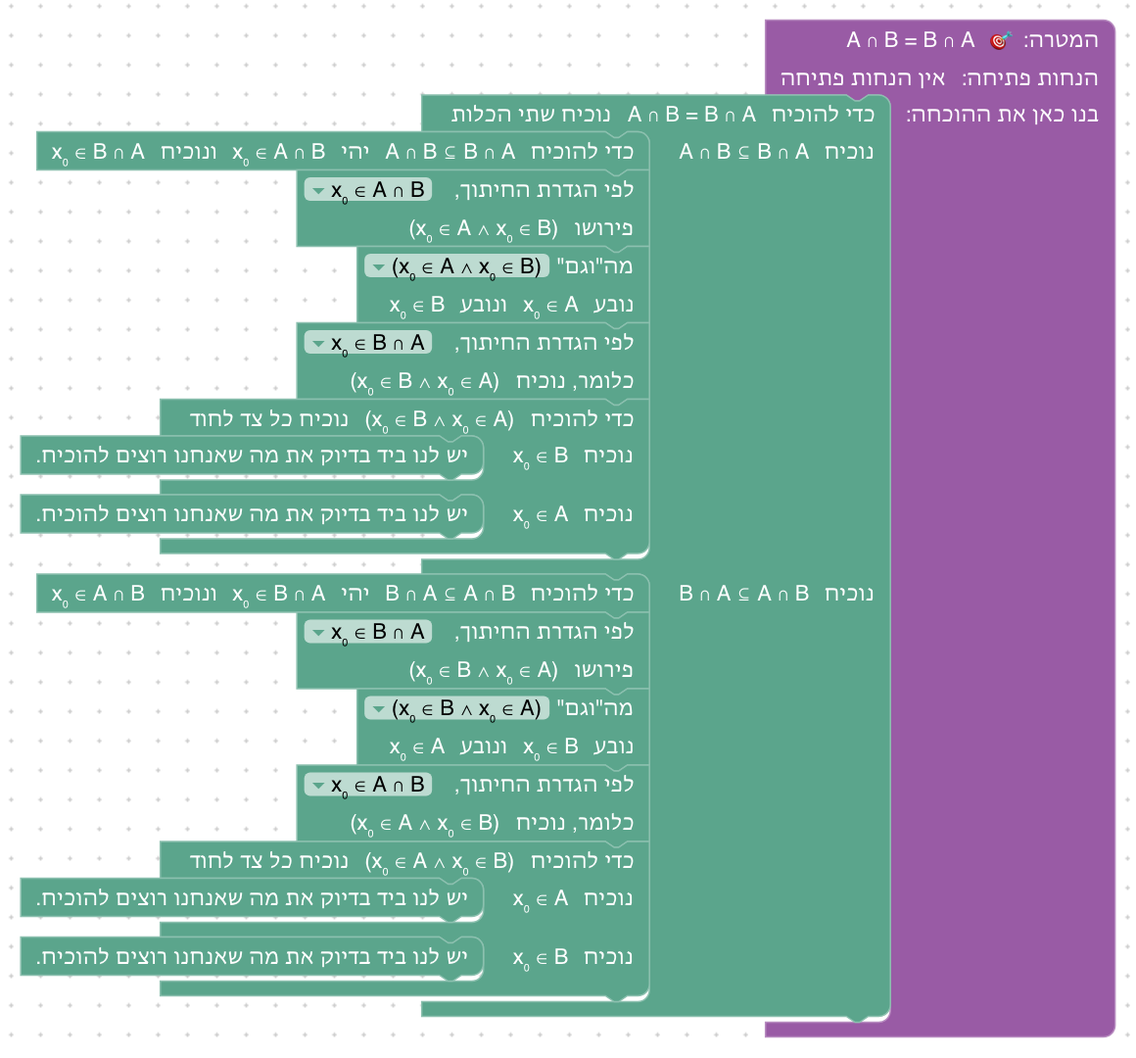
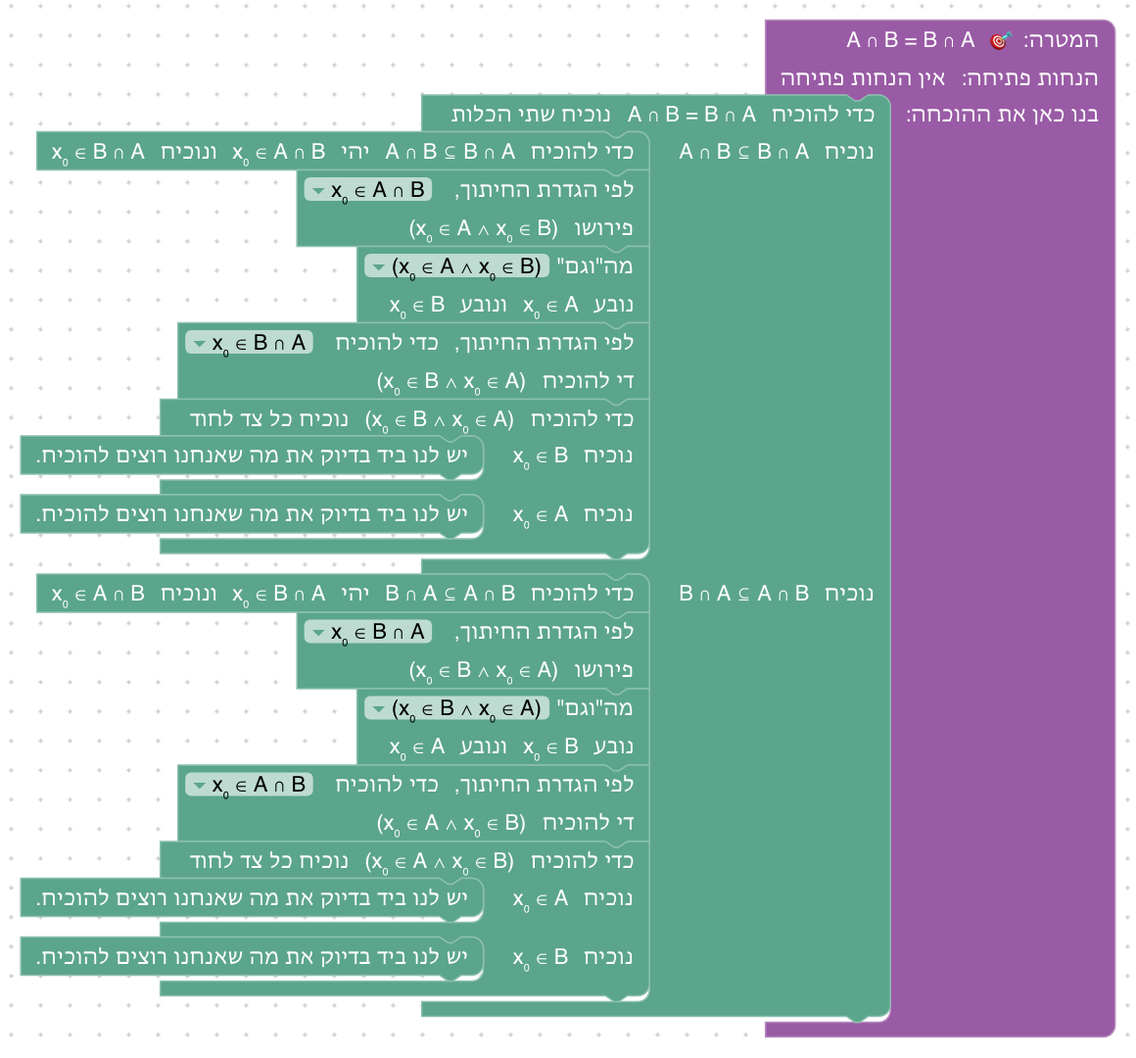
Read a definition on the goal as a backward step, and write 𝒫(A)
On the goal, the definition move read "לפי הגדרת X, [goal] כלומר, נוכיח …",
with no verb between the goal and the rest; it now reads like the other
backward moves: "לפי הגדרת X, כדי להוכיח [goal] די להוכיח …". A power set
is written as a function of its set, 𝒫(A), also when the set is a single
letter; a typed 𝒫(A) is read the same way. The docs and screenshots follow.

Changed region(s): [[0.1552, 0.7028, 0.5586, 0.7944], [0.1552, 0.3056, 0.5586, 0.3972]]

diff --git a/frontend/src/game/unit6World.js b/frontend/src/game/unit6World.js
@@ -22,7 +22,7 @@ const FORALL_ELIM_BLOCK = '"לפי ה"לכל" ? עבור העצם ?"';
 const AND_ELIM_BLOCK = '"מה"וגם" ?"';
 const CLOSE_BLOCK = '"יש לנו ביד בדיוק את מה שאנחנו רוצים להוכיח."';
 
-const powerset = { symbol: 'קבוצת החזקה', doc: 'X ∈ 𝒫 A פירושו X ⊆ A: האיברים של קבוצת החזקה הם תתי־הקבוצות של A.' };
+const powerset = { symbol: 'קבוצת החזקה', doc: 'X ∈ 𝒫(A) פירושו X ⊆ A: האיברים של קבוצת החזקה הם תתי־הקבוצות של A.' };
 const sUnion = { symbol: 'איחוד של משפחה', doc: 'x₀ ∈ ⋃₀ F פירושו ∃S (S ∈ F ∧ x₀ ∈ S): x₀ שייך לאחת הקבוצות במשפחה.' };
 const sInter = { symbol: 'חיתוך של משפחה', doc: 'x₀ ∈ ⋂₀ F פירושו ∀S (S ∈ F → x₀ ∈ S): x₀ שייך לכל הקבוצות במשפחה.' };
 
@@ -52,12 +52,12 @@ export const unit6Levels = [
 
 ביחידה 5 האיברים של הקבוצות היו עצמים. ביחידה הזאת יש גם קבוצות שהאיברים שלהן הם *קבוצות*.
 
-\`𝒫 A\` היא *קבוצת החזקה* של A: הקבוצה שהאיברים שלה הם כל תתי־הקבוצות של A. לפי ההגדרה, \`X ∈ 𝒫 A\` פירושו \`X ⊆ A\`.
+\`𝒫(A)\` היא *קבוצת החזקה* של A: הקבוצה שהאיברים שלה הם כל תתי־הקבוצות של A. לפי ההגדרה, \`X ∈ 𝒫(A)\` פירושו \`X ⊆ A\`.
 
 כאן המטרה היא \`A ∈ 𝒫(A ∪ B)\`: A היא תת־קבוצה של A ∪ B. פותחים את ההגדרה במטרה, כמו ביחידה 5, ומקבלים הכלה רגילה.`,
         newDefinitions: [powerset],
         hints: [
-            `גררו את הבלוק ${UNFOLD_BLOCK} אל תוך בלוק המטרה, ובחרו בו את המטרה A ∈ 𝒫(A ∪ B). עכשיו כתוב בו: לפי הגדרת קבוצת החזקה, כלומר, נוכיח A ⊆ (A ∪ B).`,
+            `גררו את הבלוק ${UNFOLD_BLOCK} אל תוך בלוק המטרה, ובחרו בו את המטרה A ∈ 𝒫(A ∪ B). עכשיו כתוב בו: לפי הגדרת קבוצת החזקה, כדי להוכיח A ∈ 𝒫(A ∪ B) די להוכיח A ⊆ (A ∪ B).`,
             `הוסיפו את הבלוק ${SUBSET_INTRO_BLOCK}: יהי x₀ ∈ A ונוכיח x₀ ∈ A ∪ B.`,
             `פתחו את ההגדרה במטרה x₀ ∈ A ∪ B. אחר כך הוסיפו את הבלוק ${OR_INTRO_BLOCK}, ובחרו בו x₀ ∈ A: היא בידינו.`,
         ],
@@ -76,10 +76,10 @@ export const unit6Levels = [
 
 אם A ⊆ B, כל תת־קבוצה של A היא גם תת־קבוצה של B.
 
-הפעם מוכיחים הכלה בין שתי קבוצות של קבוצות. לוקחים איבר של 𝒫 A, והוא קבוצה, ולכן קוראים לו X₀, באות גדולה. מלבד זה ההוכחה כמו כל הכלה: לוקחים איבר, פותחים הגדרות, ומשתמשים בהכלות.`,
+הפעם מוכיחים הכלה בין שתי קבוצות של קבוצות. לוקחים איבר של 𝒫(A), והוא קבוצה, ולכן קוראים לו X₀, באות גדולה. מלבד זה ההוכחה כמו כל הכלה: לוקחים איבר, פותחים הגדרות, ומשתמשים בהכלות.`,
         hints: [
-            `נניח A ⊆ B, ואחר כך ${SUBSET_INTRO_BLOCK}: יהי X₀ ∈ 𝒫 A ונוכיח X₀ ∈ 𝒫 B.`,
-            'פתחו את ההגדרה בהנחה X₀ ∈ 𝒫 A (פירושו X₀ ⊆ A), ואחר כך במטרה X₀ ∈ 𝒫 B (נשאר להוכיח X₀ ⊆ B).',
+            `נניח A ⊆ B, ואחר כך ${SUBSET_INTRO_BLOCK}: יהי X₀ ∈ 𝒫(A) ונוכיח X₀ ∈ 𝒫(B).`,
+            'פתחו את ההגדרה בהנחה X₀ ∈ 𝒫(A) (פירושו X₀ ⊆ A), ואחר כך במטרה X₀ ∈ 𝒫(B) (נשאר להוכיח X₀ ⊆ B).',
             `כדי להוכיח X₀ ⊆ B, הוסיפו שוב את הבלוק ${SUBSET_INTRO_BLOCK}: יהי x₀ ∈ X₀.`,
             `השתמשו בשתי ההכלות: לפי X₀ ⊆ A נובע x₀ ∈ A, ולפי A ⊆ B נובע x₀ ∈ B.`,
         ],

diff --git a/frontend/src/game/formatProofGoal.js b/frontend/src/game/formatProofGoal.js
@@ -64,6 +64,36 @@ const operand = (formula) => (isQuantified(formula) ? `(${formula})` : formula);
 // know which connective binds tighter: `P ∧ Q → R` is `((P ∧ Q) → R)`.
 // Quantifiers and predicates use the course's notation: Lean's
 // `∀ (x : α), R x y` is `∀x R(x,y)`.
+// A power set is written as a function of its set: `𝒫 A` is `𝒫(A)`, and
+// `𝒫 (A ∪ B)` is `𝒫(A ∪ B)`.
+const POWER_SET = '𝒫 ';
+const powerSetArgument = (text, start) => {
+    if (text.startsWith(POWER_SET, start)) {
+        const inner = powerSetArgument(text, start + POWER_SET.length);
+        return { text: `𝒫(${inner.text})`, end: inner.end };
+    }
+    if (text[start] === '(') {
+        let depth = 0;
+        for (let index = start; index < text.length; index += 1) {
+            if (text[index] === '(') depth += 1;
+            if (text[index] === ')') depth -= 1;
+            if (depth === 0) return { text: writePowerSets(text.slice(start + 1, index)), end: index + 1 };
+        }
+    }
+    const atom = text.slice(start).match(/^[\p{L}\p{N}_₀-₉']+/u)?.[0] || '';
+    return { text: atom, end: start + atom.length };
+};
+const writePowerSets = (text) => {
+    let result = '';
+    let index = 0;
+    for (let found = text.indexOf(POWER_SET); found !== -1; found = text.indexOf(POWER_SET, index)) {
+        const argument = powerSetArgument(text, found + POWER_SET.length);
+        result += `${text.slice(index, found)}𝒫(${argument.text})`;
+        index = argument.end;
+    }
+    return result + text.slice(index);
+};
+
 export const formatProofGoal = (text) => {
     const normalized = stripOuterParentheses(text || '');
     for (const [symbol, spellings] of CONNECTIVES) {
@@ -93,7 +123,7 @@ export const formatProofGoal = (text) => {
     }
     // The functions of unit 7 inside an equation: `double (k + 1)` is
     // `double(k + 1)`; multiplication is written with a dot.
-    return normalized.replace(/ \* /g, ' · ').replace(/\b(double|sumTo|oddSum) (\([^()]*\)|[\p{L}\p{N}_]+)/gu,
+    return writePowerSets(normalized).replace(/ \* /g, ' · ').replace(/\b(double|sumTo|oddSum) (\([^()]*\)|[\p{L}\p{N}_]+)/gu,
         (_, name, argument) => `${name}(${argument.replace(/^\((.*)\)$/, '$1')})`);
 };
 
@@ -188,7 +218,7 @@ const mainSetOperation = (text) => {
     }
     if (set.endsWith('ᶜ')) return { operation: 'ᶜ', operands: [set.slice(0, -1).trim()] };
     if (set === '∅') return { operation: '∅', operands: [] };
-    const prefix = ['𝒫', '⋃₀', '⋂₀'].find((operation) => set.startsWith(`${operation} `));
+    const prefix = ['𝒫', '⋃₀', '⋂₀'].find((operation) => set.startsWith(`${operation} `) || set.startsWith(`${operation}(`));
     return prefix ? { operation: prefix, operands: [set.slice(prefix.length).trim()] } : null;
 };
 

diff --git a/frontend/e2e/walk.spec.js b/frontend/e2e/walk.spec.js
@@ -409,7 +409,7 @@ const UNIT5 = [
 // Each level of unit 6, as its hints describe it.
 const UNIT6 = [
     async (page, log) => {
-        const u = await unfold(page, { goal: true }, 'A ∈ 𝒫 (A ∪ B)', log);
+        const u = await unfold(page, { goal: true }, 'A ∈ 𝒫(A ∪ B)', log);
         const i = await drag(page, 'subset_intro', { after: u }); log(await phrase(page, i));
         const g = await unfold(page, { after: i }, 'x₀ ∈ A ∪ B', log);
         const o = await drag(page, 'or_intro', { after: g }); await choose(page, o, 'SIDE', 'x₀ ∈ A');
@@ -418,15 +418,15 @@ const UNIT6 = [
     async (page, log) => {
         const a = await drag(page, 'assume', { goal: true });
         const i1 = await drag(page, 'subset_intro', { after: a }); log(await phrase(page, i1));
-        const u1 = await unfold(page, { after: i1 }, 'X₀ ∈ 𝒫 A', log);
-        const u2 = await unfold(page, { after: u1 }, 'X₀ ∈ 𝒫 B', log);
+        const u1 = await unfold(page, { after: i1 }, 'X₀ ∈ 𝒫(A)', log);
+        const u2 = await unfold(page, { after: u1 }, 'X₀ ∈ 𝒫(B)', log);
         const i2 = await drag(page, 'subset_intro', { after: u2 }); log(await phrase(page, i2));
         const e1 = await drag(page, 'subset_elim', { after: i2 }); await choose(page, e1, 'SUBSET', 'X₀ ⊆ A'); await choose(page, e1, 'MEMBER', 'x₀ ∈ X₀');
         const e2 = await drag(page, 'subset_elim', { after: e1 }); await choose(page, e2, 'SUBSET', 'A ⊆ B'); await choose(page, e2, 'MEMBER', 'x₀ ∈ A');
         await drag(page, 'exact', { after: e2 });
     },
     async (page, log) => {
-        const u = await unfold(page, { goal: true }, '∅ ∈ 𝒫 A', log);
+        const u = await unfold(page, { goal: true }, '∅ ∈ 𝒫(A)', log);
         const i = await drag(page, 'subset_intro', { after: u });
         const e = await unfold(page, { after: i }, 'x₀ ∈ ∅', log);
         const x = await drag(page, 'exfalso', { after: e });

diff --git a/frontend/src/game/moves.test.js b/frontend/src/game/moves.test.js
@@ -245,7 +245,7 @@ describe('the moves of unit 5', () => {
         expect([phraseOf(setEq, 'FIRST_TEXT'), phraseOf(setEq, 'SECOND_TEXT')]).toEqual(['נוכיח A ∩ B ⊆ B ∩ A', 'נוכיח B ∩ A ⊆ A ∩ B']);
         expect([phraseOf(unfoldHyp, 'NAME'), phraseOf(unfoldHyp)]).toEqual(['לפי הגדרת החיתוך,', 'פירושו (x₀ ∈ A ∧ x₀ ∈ (B ∪ C))']);
         unfoldGoal.setStateBefore({ assumptions: [], objects: ['x₀'], sets: [], goal: 'x₀ ∈ (A ∪ B)ᶜ' });
-        expect([phraseOf(unfoldGoal, 'NAME'), phraseOf(unfoldGoal)]).toEqual(['לפי הגדרת המשלים,', 'כלומר, נוכיח ¬x₀ ∈ (A ∪ B)']);
+        expect([phraseOf(unfoldGoal, 'NAME'), phraseOf(unfoldGoal)]).toEqual(['לפי הגדרת המשלים, כדי להוכיח', 'די להוכיח ¬x₀ ∈ (A ∪ B)']);
         // The menu offers only membership statements with a definition to use, the goal first.
         unfoldGoal.setStateBefore({ assumptions: ['A ⊆ B', 'x₀ ∈ A', 'x₀ ∈ A ∪ B'], objects: ['x₀'], sets: [], goal: 'x₀ ∈ Bᶜ' });
         expect(unfoldGoal.getField('STATEMENT').getOptions(false).map(([, value]) => value)).toEqual(['x₀ ∈ (A ∪ B)ᶜ', 'x₀ ∈ Bᶜ', 'x₀ ∈ A ∪ B', '__write_own__']);
@@ -266,7 +266,7 @@ describe('the moves of unit 5', () => {
     it('name an element of a power set as a set', () => {
         const { blocks: [subsetIntro] } = solved(unit6Levels[1], [['subset_intro']]);
         subsetIntro.setStateBefore({ assumptions: ['A ⊆ B'], objects: [], sets: ['A', 'B'], goal: '𝒫 A ⊆ 𝒫 B' });
-        expect(phraseOf(subsetIntro)).toBe('כדי להוכיח 𝒫 A ⊆ 𝒫 B יהי X₀ ∈ 𝒫 A ונוכיח X₀ ∈ 𝒫 B');
+        expect(phraseOf(subsetIntro)).toBe('כדי להוכיח 𝒫(A) ⊆ 𝒫(B) יהי X₀ ∈ 𝒫(A) ונוכיח X₀ ∈ 𝒫(B)');
     });
 });
 

diff --git a/frontend/src/game/unit5World.js b/frontend/src/game/unit5World.js
@@ -158,7 +158,7 @@ export const unit5Levels = [
         newDefinitions: [union],
         hints: [
             `גררו את הבלוק ${SUBSET_INTRO_BLOCK} אל תוך בלוק המטרה. עכשיו כתוב בו: יהי x₀ ∈ A ונוכיח x₀ ∈ A ∪ B.`,
-            `הוסיפו את הבלוק ${UNFOLD_BLOCK}, ובחרו בו את המטרה x₀ ∈ A ∪ B. עכשיו כתוב בו: לפי הגדרת האיחוד, כלומר, נוכיח (x₀ ∈ A ∨ x₀ ∈ B).`,
+            `הוסיפו את הבלוק ${UNFOLD_BLOCK}, ובחרו בו את המטרה x₀ ∈ A ∪ B. עכשיו כתוב בו: לפי הגדרת האיחוד, כדי להוכיח x₀ ∈ A ∪ B די להוכיח (x₀ ∈ A ∨ x₀ ∈ B).`,
             `הוסיפו את הבלוק ${OR_INTRO_BLOCK}, ובחרו בו x₀ ∈ A. היא בידינו: הוסיפו את הבלוק ${CLOSE_BLOCK}.`,
         ],
         conclusion: `ההוכחה, כמו שכותבים אותה ביד: "יהי x₀ ∈ A. לפי הגדרת האיחוד, די להוכיח x₀ ∈ A ∨ x₀ ∈ B, ודי להוכיח x₀ ∈ A."`,

diff --git a/frontend/src/blocks/moves.js b/frontend/src/blocks/moves.js
@@ -669,9 +669,10 @@ export const defineMoveBlocks = () => {
         updateText() {
             const statement = this.getFieldValue('STATEMENT');
             const definition = filled(statement) && unfoldMembership(statement);
-            setPhrase(this, [definition ? `לפי הגדרת ${definition.name},` : 'לפי ההגדרה,'], 'NAME');
+            const onGoal = definition && isGoal(this, statement);
+            setPhrase(this, [definition ? `לפי הגדרת ${definition.name},` : 'לפי ההגדרה,', ...(onGoal ? ['כדי להוכיח'] : [])], 'NAME');
             if (!definition) setPhrase(this, ['פירושו מה שההגדרה אומרת']);
-            else if (isGoal(this, statement)) setPhrase(this, ['כלומר, נוכיח', { formula: definition.means }]);
+            else if (onGoal) setPhrase(this, ['די להוכיח', { formula: definition.means }]);
             else setPhrase(this, ['פירושו', { formula: definition.means }]);
         },
     };

diff --git a/frontend/src/game/formatProofGoal.test.js b/frontend/src/game/formatProofGoal.test.js
@@ -95,6 +95,15 @@ describe('formatProofGoal with the functions of unit 7', () => {
     });
 });
 
+describe('formatProofGoal with power sets', () => {
+    it('writes the set in parentheses, also a single one', () => {
+        expect(formatProofGoal('X₀ ∈ 𝒫 A')).toBe('X₀ ∈ 𝒫(A)');
+        expect(formatProofGoal('A ∈ 𝒫 (A ∪ B)')).toBe('A ∈ 𝒫(A ∪ B)');
+        expect(formatProofGoal('A ⊆ B → 𝒫 A ⊆ 𝒫 B')).toBe('(A ⊆ B → 𝒫(A) ⊆ 𝒫(B))');
+        expect(formatProofGoal('S ∈ 𝒫 𝒫 A')).toBe('S ∈ 𝒫(𝒫(A))');
+    });
+});
+
 describe('splitImplication', () => {
     it.each([
         ['P → Q', ['P', 'Q']],

diff --git a/docs/curriculum/05-sets.md b/docs/curriculum/05-sets.md
@@ -14,11 +14,11 @@
 | **שימוש בהכלה (⊆E):** לפי ההכלה [A ⊆ B] ומ־[x₀ ∈ A] נובע x₀ ∈ B | `have := easylean_subset_elim ‹A ⊆ B› ‹x₀ ∈ A›` | `A ⊆ B, x₀ ∈ A` ⟶ גם `x₀ ∈ B` |
 | **שוויון קבוצות:** כדי להוכיח A = B נוכיח שתי הכלות; בראש החלקים: "נוכיח A ⊆ B", "נוכיח B ⊆ A" | `apply easylean_set_eq` | `⊢ A = B` ⟶ שני חלקים: `⊢ A ⊆ B`, `⊢ B ⊆ A` |
 | **לפי ההגדרה, על טענה שבידינו:** לפי הגדרת החיתוך, [x₀ ∈ A ∩ B] פירושו (x₀ ∈ A ∧ x₀ ∈ B) | `first \| (guard_target =ₛ x₀ ∈ A ∩ B; apply easylean_mem_inter.mpr) \| have := easylean_mem_inter.mp ‹x₀ ∈ A ∩ B›` | `x₀ ∈ A ∩ B` ⟶ גם `x₀ ∈ A ∧ x₀ ∈ B` |
-| **לפי ההגדרה, על המטרה:** לפי הגדרת האיחוד, [x₀ ∈ A ∪ B] כלומר, נוכיח (x₀ ∈ A ∨ x₀ ∈ B) | אותו קוד, עם `easylean_mem_union` | `⊢ x₀ ∈ A ∪ B` ⟶ `⊢ x₀ ∈ A ∨ x₀ ∈ B` |
+| **לפי ההגדרה, על המטרה:** לפי הגדרת האיחוד, כדי להוכיח [x₀ ∈ A ∪ B] די להוכיח (x₀ ∈ A ∨ x₀ ∈ B) | אותו קוד, עם `easylean_mem_union` | `⊢ x₀ ∈ A ∪ B` ⟶ `⊢ x₀ ∈ A ∨ x₀ ∈ B` |
 
 לפני שהבלוקים במקומם הם כתובים באופן כללי: "כדי להוכיח הכלה: יהי איבר של הקבוצה המוכלת, ונוכיח שהוא שייך לקבוצה המכילה", "לפי ההכלה ? ומ־?", "כדי להוכיח שוויון קבוצות, נוכיח שתי הכלות", "לפי ההגדרה, ?".
 
-**מהלך אחד לכל ההגדרות.** מהלך ההגדרה משמש לכל הפעולות, וכותב לפי איזו הגדרה הוא פועל: "לפי הגדרת החיתוך", "לפי הגדרת המשלים" וכן הלאה, כמו שכותבים בהוכחה. ברשימה שלו רק טענות שייכות שיש להן הגדרה: קודם המטרה, אם היא כזאת, ואחריה הטענות שבידינו. על טענה שבידינו הוא כותב "פירושו ...", ומה שהיא אומרת מצטרף למה שבידינו; על המטרה הוא כותב "כלומר, נוכיח ...", ומה שהיא אומרת הוא מה שנשאר להוכיח. Lean מנסה קודם את המטרה, אבל רק אם הטענה שנבחרה כתובה בדיוק כמו המטרה (`guard_target =ₛ`): טענה עם אותה משמעות, כמו x₀ ∈ A \ B למטרה x₀ ∈ A ∩ Bᶜ, לא נחשבת למטרה. כך הקוד לא תלוי במצב ההוכחה, וכשהטענה לא המטרה וגם לא בידינו, ההסבר הוא "אין בידינו הנחה שאומרת ...".
+**מהלך אחד לכל ההגדרות.** מהלך ההגדרה משמש לכל הפעולות, וכותב לפי איזו הגדרה הוא פועל: "לפי הגדרת החיתוך", "לפי הגדרת המשלים" וכן הלאה, כמו שכותבים בהוכחה. ברשימה שלו רק טענות שייכות שיש להן הגדרה: קודם המטרה, אם היא כזאת, ואחריה הטענות שבידינו. על טענה שבידינו הוא כותב "פירושו ...", ומה שהיא אומרת מצטרף למה שבידינו; על המטרה הוא כותב "כדי להוכיח ... די להוכיח ...", ומה שהיא אומרת הוא מה שנשאר להוכיח. Lean מנסה קודם את המטרה, אבל רק אם הטענה שנבחרה כתובה בדיוק כמו המטרה (`guard_target =ₛ`): טענה עם אותה משמעות, כמו x₀ ∈ A \ B למטרה x₀ ∈ A ∩ Bᶜ, לא נחשבת למטרה. כך הקוד לא תלוי במצב ההוכחה, וכשהטענה לא המטרה וגם לא בידינו, ההסבר הוא "אין בידינו הנחה שאומרת ...".
 
 ההגדרות:
 
@@ -112,15 +112,14 @@
 
 **מה לומדים.** מה זה איחוד, ואת מהלך ההגדרה על המטרה.
 
-**למה כך.** אותו מהלך כמו בשלב הקודם, הפעם על המטרה, כדי להראות שהוא עובד בשני המקומות, ושהניסוח משתנה בהתאם: "פירושו" על מה שבידינו, "כלומר, נוכיח" על המטרה. ברשימה של הבלוק יש כאן טענה אחת בלבד, המטרה x₀ ∈ A ∪ B, כי ל־x₀ ∈ A אין הגדרה.
+**למה כך.** אותו מהלך כמו בשלב הקודם, הפעם על המטרה, כדי להראות שהוא עובד בשני המקומות, ושהניסוח משתנה בהתאם: "פירושו" על מה שבידינו, "כדי להוכיח ... די להוכיח" על המטרה. ברשימה של הבלוק יש כאן טענה אחת בלבד, המטרה x₀ ∈ A ∪ B, כי ל־x₀ ∈ A אין הגדרה.
 
-**פתרון.** "יהי x₀ ∈ A ונוכיח x₀ ∈ A ∪ B", "לפי הגדרת האיחוד, x₀ ∈ A ∪ B כלומר, נוכיח (x₀ ∈ A ∨ x₀ ∈ B)", "כדי להוכיח (x₀ ∈ A ∨ x₀ ∈ B) די להוכיח x₀ ∈ A", ו"יש לנו ביד...".
+**פתרון.** "יהי x₀ ∈ A ונוכיח x₀ ∈ A ∪ B", "לפי הגדרת האיחוד, כדי להוכיח x₀ ∈ A ∪ B די להוכיח (x₀ ∈ A ∨ x₀ ∈ B)", "כדי להוכיח (x₀ ∈ A ∨ x₀ ∈ B) די להוכיח x₀ ∈ A", ו"יש לנו ביד...".
 
 ![שלב 5.4](images/unit5-level4-a.png)
 
 **שיקולים ושאלות להכרעה.**
-- ברשימה של הבלוק המטרה לא מסומנת כמטרה: היא פשוט ראשונה. רק אחרי הבחירה רואים לפי הניסוח ("כלומר, נוכיח") שזו המטרה. לסמן אותה ברשימה (למשל "המטרה: x₀ ∈ A ∪ B")?
-- המשפט "לפי הגדרת האיחוד, x₀ ∈ A ∪ B כלומר, נוכיח ..." נקרא קצת מקוטע. ניסוח כמו "כדי להוכיח x₀ ∈ A ∪ B, לפי הגדרת האיחוד נוכיח ..." טבעי יותר, אבל אז הבלוק נראה שונה על המטרה ועל טענה שבידינו. מה עדיף?
+- ברשימה של הבלוק המטרה לא מסומנת כמטרה: היא פשוט ראשונה. רק אחרי הבחירה רואים לפי הניסוח ("כדי להוכיח ... די להוכיח") שזו המטרה. לסמן אותה ברשימה (למשל "המטרה: x₀ ∈ A ∪ B")?
 
 ### שלב 5.5: הכלה של איחוד
 
@@ -146,7 +145,7 @@
 
 **למה כך.** הטעות הנפוצה היא להוכיח הכלה אחת בלבד; המהלך מפצל את ההוכחה לשני חלקים, וכותב בראש כל אחד מה מוכיחים בו, כך שאי אפשר לשכוח את השנייה. Set Theory Game משתמש באותה טענה (חילוף החיתוך). בשלב שתי דרכים להוכחת ה"וגם" שבמטרה, כמו ביחידה 2, ובארגז הבלוקים של שתיהן.
 
-**פתרון א: בשני חלקים.** "כדי להוכיח A ∩ B = B ∩ A נוכיח שתי הכלות". בחלק "נוכיח A ∩ B ⊆ B ∩ A": "יהי x₀ ∈ A ∩ B ונוכיח x₀ ∈ B ∩ A", הגדרת החיתוך על x₀ ∈ A ∩ B ו"מה"וגם"", הגדרת החיתוך על המטרה ("כלומר, נוכיח (x₀ ∈ B ∧ x₀ ∈ A)"), "כדי להוכיח ... נוכיח כל צד לחוד", ובכל צד "יש לנו ביד...". החלק השני זהה, עם A ו־B בתפקידים הפוכים; גם בו האיבר נקרא x₀, כי ה־x₀ של החלק הראשון לא נמצא בידינו בחלק השני.
+**פתרון א: בשני חלקים.** "כדי להוכיח A ∩ B = B ∩ A נוכיח שתי הכלות". בחלק "נוכיח A ∩ B ⊆ B ∩ A": "יהי x₀ ∈ A ∩ B ונוכיח x₀ ∈ B ∩ A", הגדרת החיתוך על x₀ ∈ A ∩ B ו"מה"וגם"", הגדרת החיתוך על המטרה ("כדי להוכיח x₀ ∈ B ∩ A די להוכיח (x₀ ∈ B ∧ x₀ ∈ A)"), "כדי להוכיח ... נוכיח כל צד לחוד", ובכל צד "יש לנו ביד...". החלק השני זהה, עם A ו־B בתפקידים הפוכים; גם בו האיבר נקרא x₀, כי ה־x₀ של החלק הראשון לא נמצא בידינו בחלק השני.
 
 ![שלב 5.6, בשני חלקים](images/unit5-level6-a.png)
 
@@ -182,7 +181,7 @@
 
 **למה כך.** הכיוון הזה לא דורש הוכחה בשלילה (הכיוון ההפוך דורש). הוא מקביל ל־modus tollens של יחידה 3.
 
-**פתרון.** "נניח A ⊆ B ונוכיח Bᶜ ⊆ Aᶜ", "יהי x₀ ∈ Bᶜ ונוכיח x₀ ∈ Aᶜ", "לפי הגדרת המשלים, x₀ ∈ Bᶜ פירושו ¬x₀ ∈ B", "לפי הגדרת המשלים, x₀ ∈ Aᶜ כלומר, נוכיח ¬x₀ ∈ A", "כדי להוכיח ¬x₀ ∈ A נניח x₀ ∈ A ונגיע לסתירה", "לפי ההכלה A ⊆ B ומ־x₀ ∈ A נובע x₀ ∈ B", ו"יש לנו ביד את x₀ ∈ B ואת ¬x₀ ∈ B, וזו סתירה."
+**פתרון.** "נניח A ⊆ B ונוכיח Bᶜ ⊆ Aᶜ", "יהי x₀ ∈ Bᶜ ונוכיח x₀ ∈ Aᶜ", "לפי הגדרת המשלים, x₀ ∈ Bᶜ פירושו ¬x₀ ∈ B", "לפי הגדרת המשלים, כדי להוכיח x₀ ∈ Aᶜ די להוכיח ¬x₀ ∈ A", "כדי להוכיח ¬x₀ ∈ A נניח x₀ ∈ A ונגיע לסתירה", "לפי ההכלה A ⊆ B ומ־x₀ ∈ A נובע x₀ ∈ B", ו"יש לנו ביד את x₀ ∈ B ואת ¬x₀ ∈ B, וזו סתירה."
 
 ![שלב 5.8](images/unit5-level8-a.png)
 
@@ -198,7 +197,7 @@
 
 **למה כך.** שלוש הגדרות שונות באותה הוכחה (הפרש, חיתוך ומשלים), ובכל פעם הבלוק כותב באיזו מהן השתמשו. השלב גם מראה למה Lean מבחין בין המטרה לבין טענה עם אותה משמעות: x₀ ∈ A \ B ו־x₀ ∈ A ∩ Bᶜ אומרות אותו דבר, אבל בחירה ב־x₀ ∈ A \ B משתמשת בהגדרה על מה שבידינו, ולא על המטרה.
 
-**פתרון.** "יהי x₀ ∈ A \ B ונוכיח x₀ ∈ A ∩ Bᶜ", "לפי הגדרת ההפרש, x₀ ∈ A \ B פירושו (x₀ ∈ A ∧ ¬x₀ ∈ B)", "מה"וגם" ... נובע x₀ ∈ A ונובע ¬x₀ ∈ B", "לפי הגדרת החיתוך, x₀ ∈ A ∩ Bᶜ כלומר, נוכיח (x₀ ∈ A ∧ x₀ ∈ Bᶜ)", "נוכיח כל צד לחוד". בחלק "נוכיח x₀ ∈ A": "יש לנו ביד...". בחלק "נוכיח x₀ ∈ Bᶜ": "לפי הגדרת המשלים, x₀ ∈ Bᶜ כלומר, נוכיח ¬x₀ ∈ B", ו"יש לנו ביד...".
+**פתרון.** "יהי x₀ ∈ A \ B ונוכיח x₀ ∈ A ∩ Bᶜ", "לפי הגדרת ההפרש, x₀ ∈ A \ B פירושו (x₀ ∈ A ∧ ¬x₀ ∈ B)", "מה"וגם" ... נובע x₀ ∈ A ונובע ¬x₀ ∈ B", "לפי הגדרת החיתוך, כדי להוכיח x₀ ∈ A ∩ Bᶜ די להוכיח (x₀ ∈ A ∧ x₀ ∈ Bᶜ)", "נוכיח כל צד לחוד". בחלק "נוכיח x₀ ∈ A": "יש לנו ביד...". בחלק "נוכיח x₀ ∈ Bᶜ": "לפי הגדרת המשלים, כדי להוכיח x₀ ∈ Bᶜ די להוכיח ¬x₀ ∈ B", ו"יש לנו ביד...".
 
 ![שלב 5.9](images/unit5-level9-a.png)
 
@@ -230,7 +229,7 @@
 
 **למה כך.** חוק דה מורגן של יחידה 3, בשפת הקבוצות: אחרי השימוש בהגדרות נשארת ההוכחה של ¬(P ∨ Q) ↔ ¬P ∧ ¬Q. הכיוון הזה לא דורש הוכחה בשלילה באף אחת מההכלות (Set Theory Game ו־D∃∀duction מלמדים אותו). הוא בונוס בגלל האורך.
 
-**פתרון.** "נוכיח שתי הכלות". בהכלה הראשונה: "יהי x₀ ∈ (A ∪ B)ᶜ", הגדרת המשלים עליה (פירושו ¬x₀ ∈ A ∪ B), הגדרת החיתוך על המטרה, ו"נוכיח כל צד לחוד". בצד "נוכיח x₀ ∈ Aᶜ": הגדרת המשלים על המטרה, "נניח x₀ ∈ A ונגיע לסתירה", "לפי השלילה ¬x₀ ∈ A ∪ B שיש לנו ביד, כדי להגיע לסתירה די להוכיח x₀ ∈ A ∪ B", הגדרת האיחוד על המטרה, "די להוכיח x₀ ∈ A", ו"יש לנו ביד...". הצד של B דומה. בהכלה השנייה: "יהי x₀ ∈ Aᶜ ∩ Bᶜ", הגדרת החיתוך ו"מה"וגם"", הגדרת המשלים על x₀ ∈ Aᶜ ועל x₀ ∈ Bᶜ, הגדרת המשלים על המטרה (כלומר, נוכיח ¬x₀ ∈ A ∪ B), "נניח x₀ ∈ A ∪ B ונגיע לסתירה", הגדרת האיחוד עליה, ו"נחלק למקרים": בכל מקרה "יש לנו ביד את x₀ ∈ A ואת ¬x₀ ∈ A, וזו סתירה." (ובמקרה השני עם B).
+**פתרון.** "נוכיח שתי הכלות". בהכלה הראשונה: "יהי x₀ ∈ (A ∪ B)ᶜ", הגדרת המשלים עליה (פירושו ¬x₀ ∈ A ∪ B), הגדרת החיתוך על המטרה, ו"נוכיח כל צד לחוד". בצד "נוכיח x₀ ∈ Aᶜ": הגדרת המשלים על המטרה, "נניח x₀ ∈ A ונגיע לסתירה", "לפי השלילה ¬x₀ ∈ A ∪ B שיש לנו ביד, כדי להגיע לסתירה די להוכיח x₀ ∈ A ∪ B", הגדרת האיחוד על המטרה, "די להוכיח x₀ ∈ A", ו"יש לנו ביד...". הצד של B דומה. בהכלה השנייה: "יהי x₀ ∈ Aᶜ ∩ Bᶜ", הגדרת החיתוך ו"מה"וגם"", הגדרת המשלים על x₀ ∈ Aᶜ ועל x₀ ∈ Bᶜ, הגדרת המשלים על המטרה (די להוכיח ¬x₀ ∈ A ∪ B), "נניח x₀ ∈ A ∪ B ונגיע לסתירה", הגדרת האיחוד עליה, ו"נחלק למקרים": בכל מקרה "יש לנו ביד את x₀ ∈ A ואת ¬x₀ ∈ A, וזו סתירה." (ובמקרה השני עם B).
 
 ![שלב 5.11](images/unit5-level11-a.png)
 

diff --git a/docs/curriculum/06-sets-of-sets.md b/docs/curriculum/06-sets-of-sets.md
@@ -10,9 +10,9 @@
 
 | מהלך (כשהוא במקומו) | Lean | לפני → אחרי |
 |---|---|---|
-| לפי הגדרת קבוצת החזקה, [A ∈ 𝒫(A ∪ B)] כלומר, נוכיח A ⊆ (A ∪ B) | `apply easylean_mem_powerset.mpr` | `⊢ A ∈ 𝒫(A ∪ B)` ⟶ `⊢ A ⊆ (A ∪ B)` |
-| לפי הגדרת קבוצת החזקה, [X₀ ∈ 𝒫(A)] פירושו X₀ ⊆ A | `have := easylean_mem_powerset.mp ‹X₀ ∈ 𝒫 A›` | `X₀ ∈ 𝒫(A) ⊢ …` ⟶ גם `X₀ ⊆ A` |
-| לפי הגדרת איחוד המשפחה, [x₀ ∈ ⋃₀ F] כלומר, נוכיח ∃S (S ∈ F ∧ x₀ ∈ S) | `apply easylean_mem_sUnion.mpr` | `⊢ x₀ ∈ ⋃₀ F` ⟶ `⊢ ∃S (S ∈ F ∧ x₀ ∈ S)` |
+| לפי הגדרת קבוצת החזקה, כדי להוכיח [A ∈ 𝒫(A ∪ B)] די להוכיח A ⊆ (A ∪ B) | `apply easylean_mem_powerset.mpr` | `⊢ A ∈ 𝒫(A ∪ B)` ⟶ `⊢ A ⊆ (A ∪ B)` |
+| לפי הגדרת קבוצת החזקה, [X₀ ∈ 𝒫(A)] פירושו X₀ ⊆ A | `have := easylean_mem_powerset.mp ‹X₀ ∈ 𝒫(A)›` | `X₀ ∈ 𝒫(A) ⊢ …` ⟶ גם `X₀ ⊆ A` |
+| לפי הגדרת איחוד המשפחה, כדי להוכיח [x₀ ∈ ⋃₀ F] די להוכיח ∃S (S ∈ F ∧ x₀ ∈ S) | `apply easylean_mem_sUnion.mpr` | `⊢ x₀ ∈ ⋃₀ F` ⟶ `⊢ ∃S (S ∈ F ∧ x₀ ∈ S)` |
 | לפי הגדרת חיתוך המשפחה, [x₀ ∈ ⋂₀ F] פירושו ∀S (S ∈ F → x₀ ∈ S) | `have := easylean_mem_sInter.mp ‹x₀ ∈ ⋂₀ F›` | `x₀ ∈ ⋂₀ F ⊢ …` ⟶ גם `∀S (S ∈ F → x₀ ∈ S)` |
 | כדי להוכיח 𝒫(A) ⊆ 𝒫(B) יהי X₀ ∈ 𝒫(A) ונוכיח X₀ ∈ 𝒫(B) | `refine easylean_subset_intro (fun X₀ _ => ?_)` | `⊢ 𝒫(A) ⊆ 𝒫(B)` ⟶ `X₀ ∈ 𝒫(A) ⊢ X₀ ∈ 𝒫(B)`, ובידינו הקבוצה X₀ |
 | לפי ההכלה [X₀ ⊆ A] ומ־[x₀ ∈ X₀] נובע x₀ ∈ A | `have := easylean_subset_elim ‹X₀ ⊆ A› ‹x₀ ∈ X₀›` | `X₀ ⊆ A, x₀ ∈ X₀ ⊢ …` ⟶ גם `x₀ ∈ A` |
@@ -32,7 +32,7 @@
 
 **אותה תורת קבוצות, קומה אחת למעלה.** ההגדרות נמצאות ב־`SET_PRELUDE` (`frontend/src/generator/lean.js`), יחד עם אלה של יחידה 5: קבוצה של קבוצות היא `Set (Set obj)`, ושייכות של קבוצה לקבוצה של קבוצות היא אותה שייכות `∈`. כל הגדרה היא שקילות שמתקיימת לפי ההגדרה עצמה (`Iff.rfl`), כך שפתיחת הגדרה היא צעד לוגי גלוי ולא חישוב.
 
-**מהלך הגדרה אחד.** כמו ביחידה 5, אותו מהלך פותח כל הגדרה, ומה שהוא כותב תלוי בטענה שנבחרה: "לפי הגדרת קבוצת החזקה", "לפי הגדרת איחוד המשפחה". ברשימה רק טענות שייכות שיש להן הגדרה, מהמטרה וממה שבידינו. על המטרה הוא כותב "כלומר, נוכיח …", ועל טענה שבידינו "פירושו …", והפירוש מצטרף למה שבידינו. ב־Lean המהלך מנסה קודם את המטרה, רק אם היא כתובה בדיוק כמו הטענה שנבחרה (`first | (guard_target =ₛ …; apply ….mpr) | have := ….mp ‹…›`). ההגדרה נפתחת לפי הפעולה הראשית: ב־`A ∈ 𝒫(A ∪ B)` זו קבוצת החזקה, והאיחוד נשאר בפנים.
+**מהלך הגדרה אחד.** כמו ביחידה 5, אותו מהלך פותח כל הגדרה, ומה שהוא כותב תלוי בטענה שנבחרה: "לפי הגדרת קבוצת החזקה", "לפי הגדרת איחוד המשפחה". ברשימה רק טענות שייכות שיש להן הגדרה, מהמטרה וממה שבידינו. על המטרה הוא כותב "כדי להוכיח … די להוכיח …", ועל טענה שבידינו "פירושו …", והפירוש מצטרף למה שבידינו. ב־Lean המהלך מנסה קודם את המטרה, רק אם היא כתובה בדיוק כמו הטענה שנבחרה (`first | (guard_target =ₛ …; apply ….mpr) | have := ….mp ‹…›`). ההגדרה נפתחת לפי הפעולה הראשית: ב־`A ∈ 𝒫(A ∪ B)` זו קבוצת החזקה, והאיחוד נשאר בפנים.
 
 **"לכל" ו"קיים" מעל קבוצות.** אחרי פתיחת ההגדרה של איחוד או חיתוך של משפחה המשתנה הקשור S רץ על קבוצות. המהלכים של יחידה 4 עובדים עליו כמו שהם: הלמות שלהם (`easylean_forall_elim`, `Exists.intro`, `Exists.elim`) מוגדרות לכל תחום, וגם `Set obj` הוא תחום. התצוגה כותבת `∀S (S ∈ F → x₀ ∈ S)`, בלי `(S : Set obj)`.
 
@@ -52,7 +52,7 @@
 
 **למה כך.** הטענה הפשוטה ביותר שבה קבוצה היא איבר. ההגדרה נפתחת על המטרה, ואחרי הפתיחה נשארת ההכלה A ⊆ A ∪ B, שהוכחה כבר בשלב 5.4. כך החדש בשלב הוא רק ההגדרה, וכל השאר מוכר. הסטודנט פותח שתי הגדרות זו אחר זו, קודם של קבוצת החזקה ואחר כך של האיחוד, ורואה שהמהלך פותח כל פעם את הפעולה הראשית.
 
-**פתרון.** "לפי הגדרת קבוצת החזקה, A ∈ 𝒫(A ∪ B) כלומר, נוכיח A ⊆ (A ∪ B)." אחר כך "כדי להוכיח A ⊆ (A ∪ B) יהי x₀ ∈ A ונוכיח x₀ ∈ (A ∪ B)", ופותחים את הגדרת האיחוד במטרה: "כלומר, נוכיח x₀ ∈ A ∨ x₀ ∈ B". די להוכיח x₀ ∈ A, ויש לנו ביד בדיוק את זה.
+**פתרון.** "לפי הגדרת קבוצת החזקה, כדי להוכיח A ∈ 𝒫(A ∪ B) די להוכיח A ⊆ (A ∪ B)." אחר כך "כדי להוכיח A ⊆ (A ∪ B) יהי x₀ ∈ A ונוכיח x₀ ∈ (A ∪ B)", ופותחים את הגדרת האיחוד במטרה: "כדי להוכיח x₀ ∈ (A ∪ B) די להוכיח x₀ ∈ A ∨ x₀ ∈ B". די להוכיח x₀ ∈ A, ויש לנו ביד בדיוק את זה.
 
 ![שלב 6.1](images/unit6-level1-a.png)
 
@@ -68,7 +68,7 @@
 
 **למה כך.** המונוטוניות של קבוצת החזקה היא תרגיל קלאסי (Logic and Proof, How To Prove It). ההוכחה היא שתי הכלות מקוננות: הכלה של קבוצות של קבוצות, ובתוכה הכלה של קבוצות. כך רואים שההוכחה זהה בשתי הקומות, ושרק השם מבחין ביניהן: X₀ לקבוצה, x₀ לאיבר שלה.
 
-**פתרון.** נניח A ⊆ B. "כדי להוכיח 𝒫(A) ⊆ 𝒫(B) יהי X₀ ∈ 𝒫(A) ונוכיח X₀ ∈ 𝒫(B)." לפי הגדרת קבוצת החזקה, X₀ ∈ 𝒫(A) פירושו X₀ ⊆ A, ובמטרה: כלומר, נוכיח X₀ ⊆ B. יהי x₀ ∈ X₀ ונוכיח x₀ ∈ B. לפי ההכלה X₀ ⊆ A ומ־x₀ ∈ X₀ נובע x₀ ∈ A, ולפי ההכלה A ⊆ B ומ־x₀ ∈ A נובע x₀ ∈ B, וזה בדיוק מה שרוצים להוכיח.
+**פתרון.** נניח A ⊆ B. "כדי להוכיח 𝒫(A) ⊆ 𝒫(B) יהי X₀ ∈ 𝒫(A) ונוכיח X₀ ∈ 𝒫(B)." לפי הגדרת קבוצת החזקה, כדי להוכיח X₀ ∈ 𝒫(A) פירושו X₀ ⊆ A, ובמטרה: די להוכיח X₀ ⊆ B. יהי x₀ ∈ X₀ ונוכיח x₀ ∈ B. לפי ההכלה X₀ ⊆ A ומ־x₀ ∈ X₀ נובע x₀ ∈ A, ולפי ההכלה A ⊆ B ומ־x₀ ∈ A נובע x₀ ∈ B, וזה בדיוק מה שרוצים להוכיח.
 
 ![שלב 6.2](images/unit6-level2-a.png)
 
@@ -85,7 +85,7 @@
 
 **למה כך.** אחרי פתיחת ההגדרה נשארת ההכלה ∅ ⊆ A, שהוכחה בשלב 5.10. הסטודנט רואה ש"∅ ∈ 𝒫(A)" ו־"∅ ⊆ A" הן אותה טענה לפי ההגדרה, ומבחין בין ∈ ל־⊆ כשהקבוצה הריקה מופיעה פעם כאיבר ופעם כקבוצה.
 
-**פתרון.** "לפי הגדרת קבוצת החזקה, ∅ ∈ 𝒫(A) כלומר, נוכיח ∅ ⊆ A." יהי x₀ ∈ ∅ ונוכיח x₀ ∈ A. לפי הגדרת הקבוצה הריקה, x₀ ∈ ∅ פירושו ⊥. "מסתירה נובע הכול, ולכן כדי להוכיח x₀ ∈ A די להגיע לסתירה", והסתירה כבר בידינו.
+**פתרון.** "לפי הגדרת קבוצת החזקה, כדי להוכיח ∅ ∈ 𝒫(A) די להוכיח ∅ ⊆ A." יהי x₀ ∈ ∅ ונוכיח x₀ ∈ A. לפי הגדרת הקבוצה הריקה, x₀ ∈ ∅ פירושו ⊥. "מסתירה נובע הכול, ולכן כדי להוכיח x₀ ∈ A די להגיע לסתירה", והסתירה כבר בידינו.
 
 ![שלב 6.3](images/unit6-level3-a.png)
 
@@ -101,7 +101,7 @@
 
 **למה כך.** הטענה הפשוטה ביותר על איחוד של משפחה. העד הוא A עצמה, שכבר בידינו, כך שהסטודנט לא צריך לבנות אותו. אחרי בחירת העד נשאר "וגם" ששני הצדדים שלו בידינו, ולכן כל הקושי הוא בהבנת ההגדרה.
 
-**פתרון.** "כדי להוכיח A ⊆ ⋃₀ F יהי x₀ ∈ A ונוכיח x₀ ∈ ⋃₀ F." לפי הגדרת איחוד המשפחה: כלומר, נוכיח ∃S (S ∈ F ∧ x₀ ∈ S). "כדי להוכיח ∃S (S ∈ F ∧ x₀ ∈ S) נבחר את העצם A ונוכיח (A ∈ F ∧ x₀ ∈ A)." מוכיחים כל צד לחוד: A ∈ F בידינו, וגם x₀ ∈ A.
+**פתרון.** "כדי להוכיח A ⊆ ⋃₀ F יהי x₀ ∈ A ונוכיח x₀ ∈ ⋃₀ F." "לפי הגדרת איחוד המשפחה, כדי להוכיח x₀ ∈ ⋃₀ F די להוכיח ∃S (S ∈ F ∧ x₀ ∈ S)." "כדי להוכיח ∃S (S ∈ F ∧ x₀ ∈ S) נבחר את העצם A ונוכיח (A ∈ F ∧ x₀ ∈ A)." מוכיחים כל צד לחוד: A ∈ F בידינו, וגם x₀ ∈ A.
 
 ![שלב 6.4](images/unit6-level4-a.png)
 

diff --git a/docs/curriculum/04-quantifiers.md b/docs/curriculum/04-quantifiers.md
@@ -223,7 +223,7 @@
 ## שאלות שנוגעות ליחידה כולה
 
 - **"עצם" שהוא קבוצה.** ביחידה 6 (קבוצות של קבוצות) משתמשים באותם מהלכים על "לכל" ו"קיים" מעל קבוצות, ולכן העד או העצם שמציבים יכולים להיות קבוצה. למשל, כשמוכיחים A ⊆ ⋃₀ F, העד הוא הקבוצה A, אבל הבלוק כותב "נבחר את העצם A". לכתוב "נבחר את A" בלי "העצם", או לשנות את המילה לפי סוג הדבר שנבחר?
-- **מהלך לטענת ביניים.** אין עדיין מהלך כמו "נוכיח קודם ש־...", שמוסיף טענה ומוכיח אותה בצד. הוא יאפשר להשתמש בשלב 4.8 בתוך 4.10, ויאפשר הוכחות כמו 𝒫 A ⊆ 𝒫 B → A ⊆ B ביחידה 6, שדורשת להוכיח בצד את A ∈ 𝒫 A.
+- **מהלך לטענת ביניים.** אין עדיין מהלך כמו "נוכיח קודם ש־...", שמוסיף טענה ומוכיח אותה בצד. הוא יאפשר להשתמש בשלב 4.8 בתוך 4.10, ויאפשר הוכחות כמו 𝒫(A) ⊆ 𝒫(B) → A ⊆ B ביחידה 6, שדורשת להוכיח בצד את A ∈ 𝒫(A).
 - **אותה טענה פעמיים.** כשאותה טענה נמצאת בידינו פעמיים (למשל אחרי שתי הצבות זהות), היא מופיעה ברשימה פעם אחת. Lean מוצא אותה לפי מה שהיא אומרת, ולכן אין הבדל. זה מספיק, או שמצב ההוכחה צריך להראות שהיא הופיעה פעמיים?
 - **סוגריים סביב גוף הכמת:** גוף הכמת מוקף בסוגריים רק כשהוא מורכב: `∀x P(x)`, אבל `∀x (P(x) → Q(x))`. זו המוסכמה הנפוצה בספרי לוגיקה; אם מוסכמת הקורס שונה, זה שינוי בפונקציה אחת (`formatProofGoal`).
 - **תחום ריק:** `∀x P(x) → ∃x P(x)` נכון רק בתחום לא ריק. האם להוסיף שלב בונוס שבו נתון עצם a, ולדון למה הוא נחוץ?

diff --git a/docs/curriculum/design/moves.md b/docs/curriculum/design/moves.md
@@ -41,7 +41,7 @@
 
 ## שאלות פתוחות
 
-- מהלך לטענת ביניים ("נוכיח קודם ש־...") יאפשר הוכחות כמו 𝒫 A ⊆ 𝒫 B → A ⊆ B, שהיום אי אפשר לבנות.
+- מהלך לטענת ביניים ("נוכיח קודם ש־...") יאפשר הוכחות כמו 𝒫(A) ⊆ 𝒫(B) → A ⊆ B, שהיום אי אפשר לבנות.
 - ביחידה 6, שלב 4, העד הוא קבוצה, אבל הבלוק כותב "נבחר את העצם A".
 - כשאותה טענה מופיעה פעמיים בהנחות, היא מופיעה ברשימה פעם אחת. זה מספיק?
 - האם הסטודנט צריך לכתוב בעצמו את מה שהוא מניח ("נניח P"), או שהבלוק משלים זאת לבד, כמו עכשיו?
